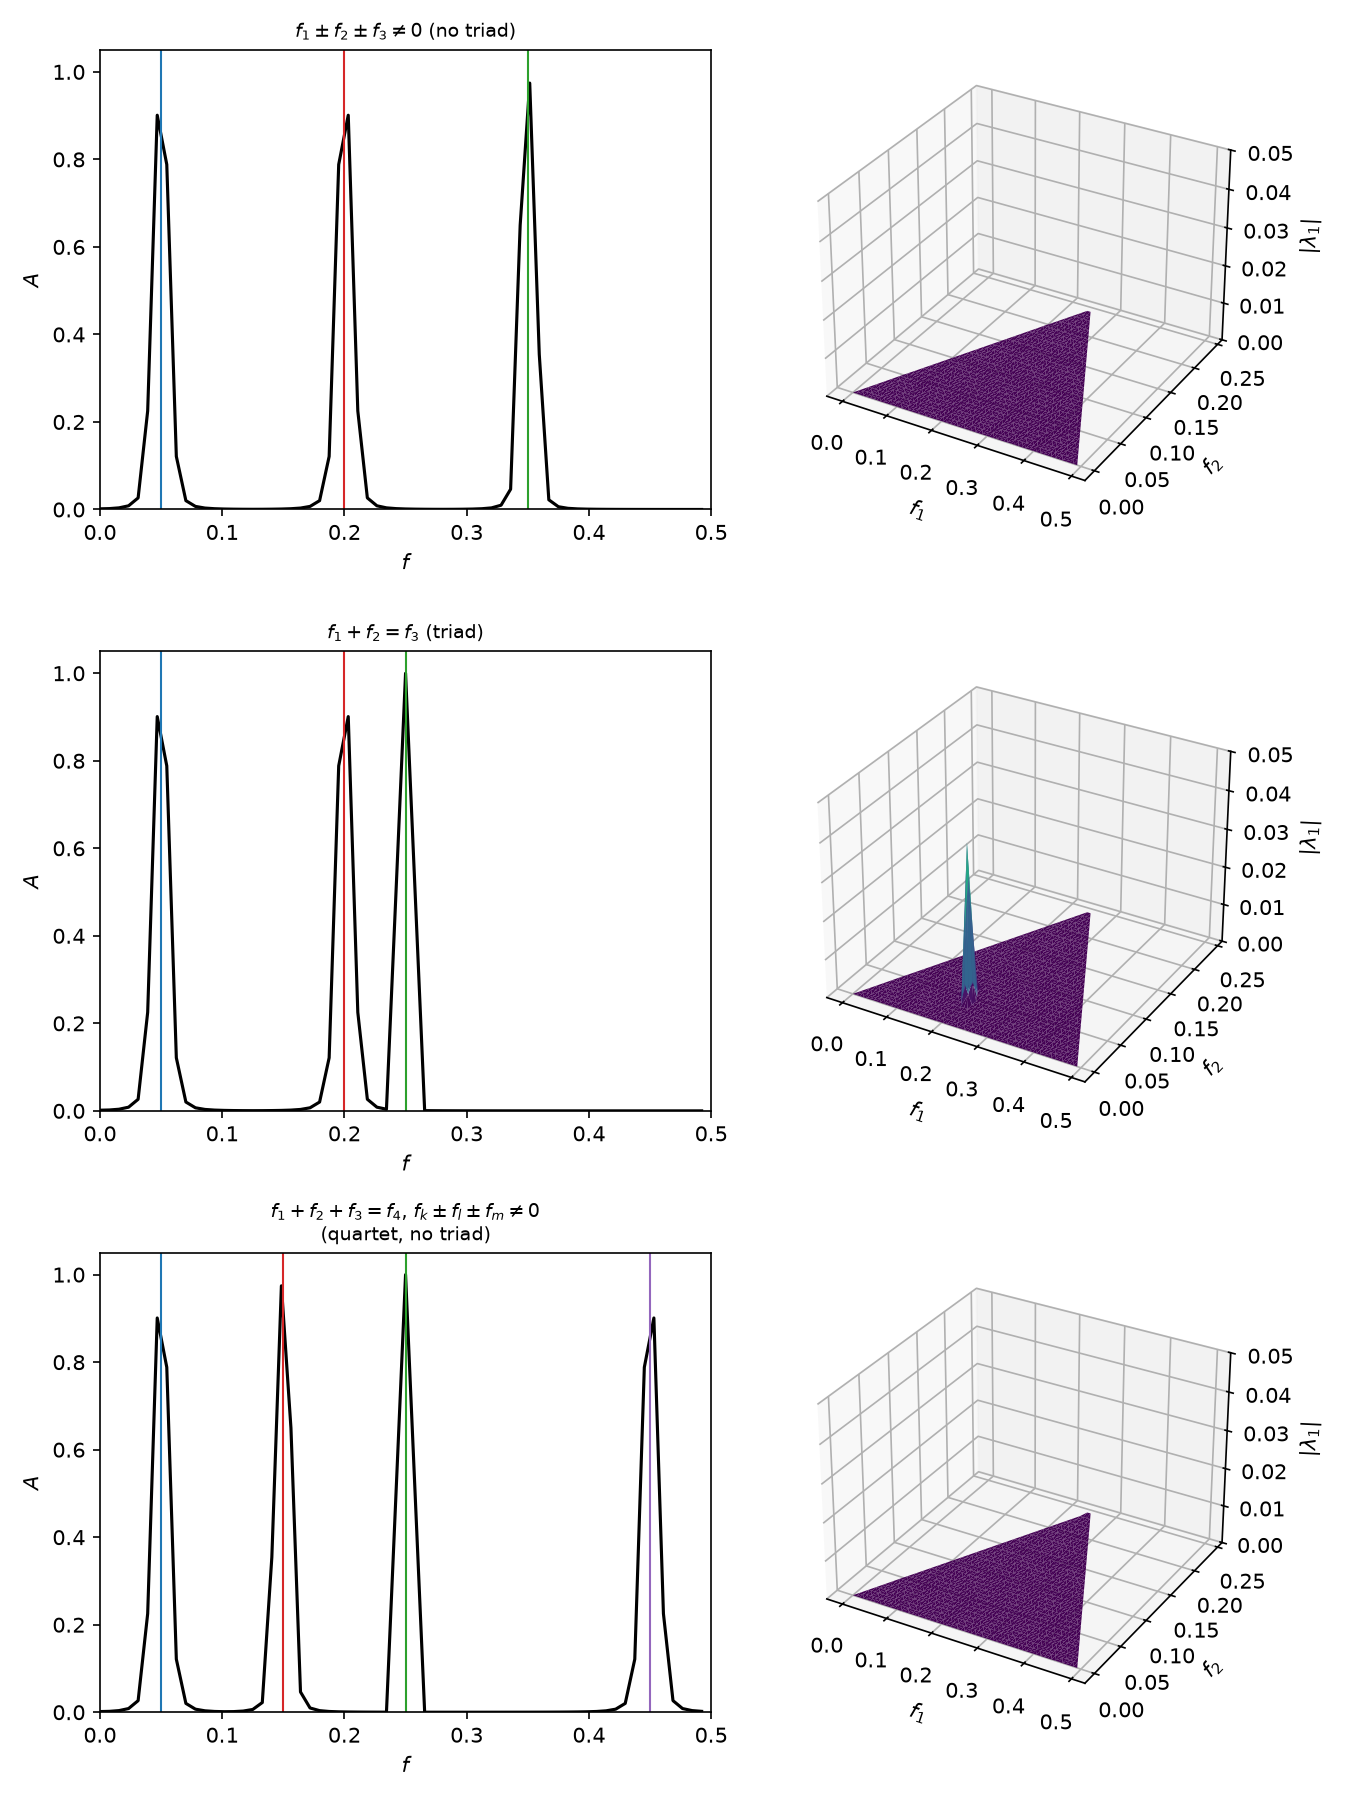
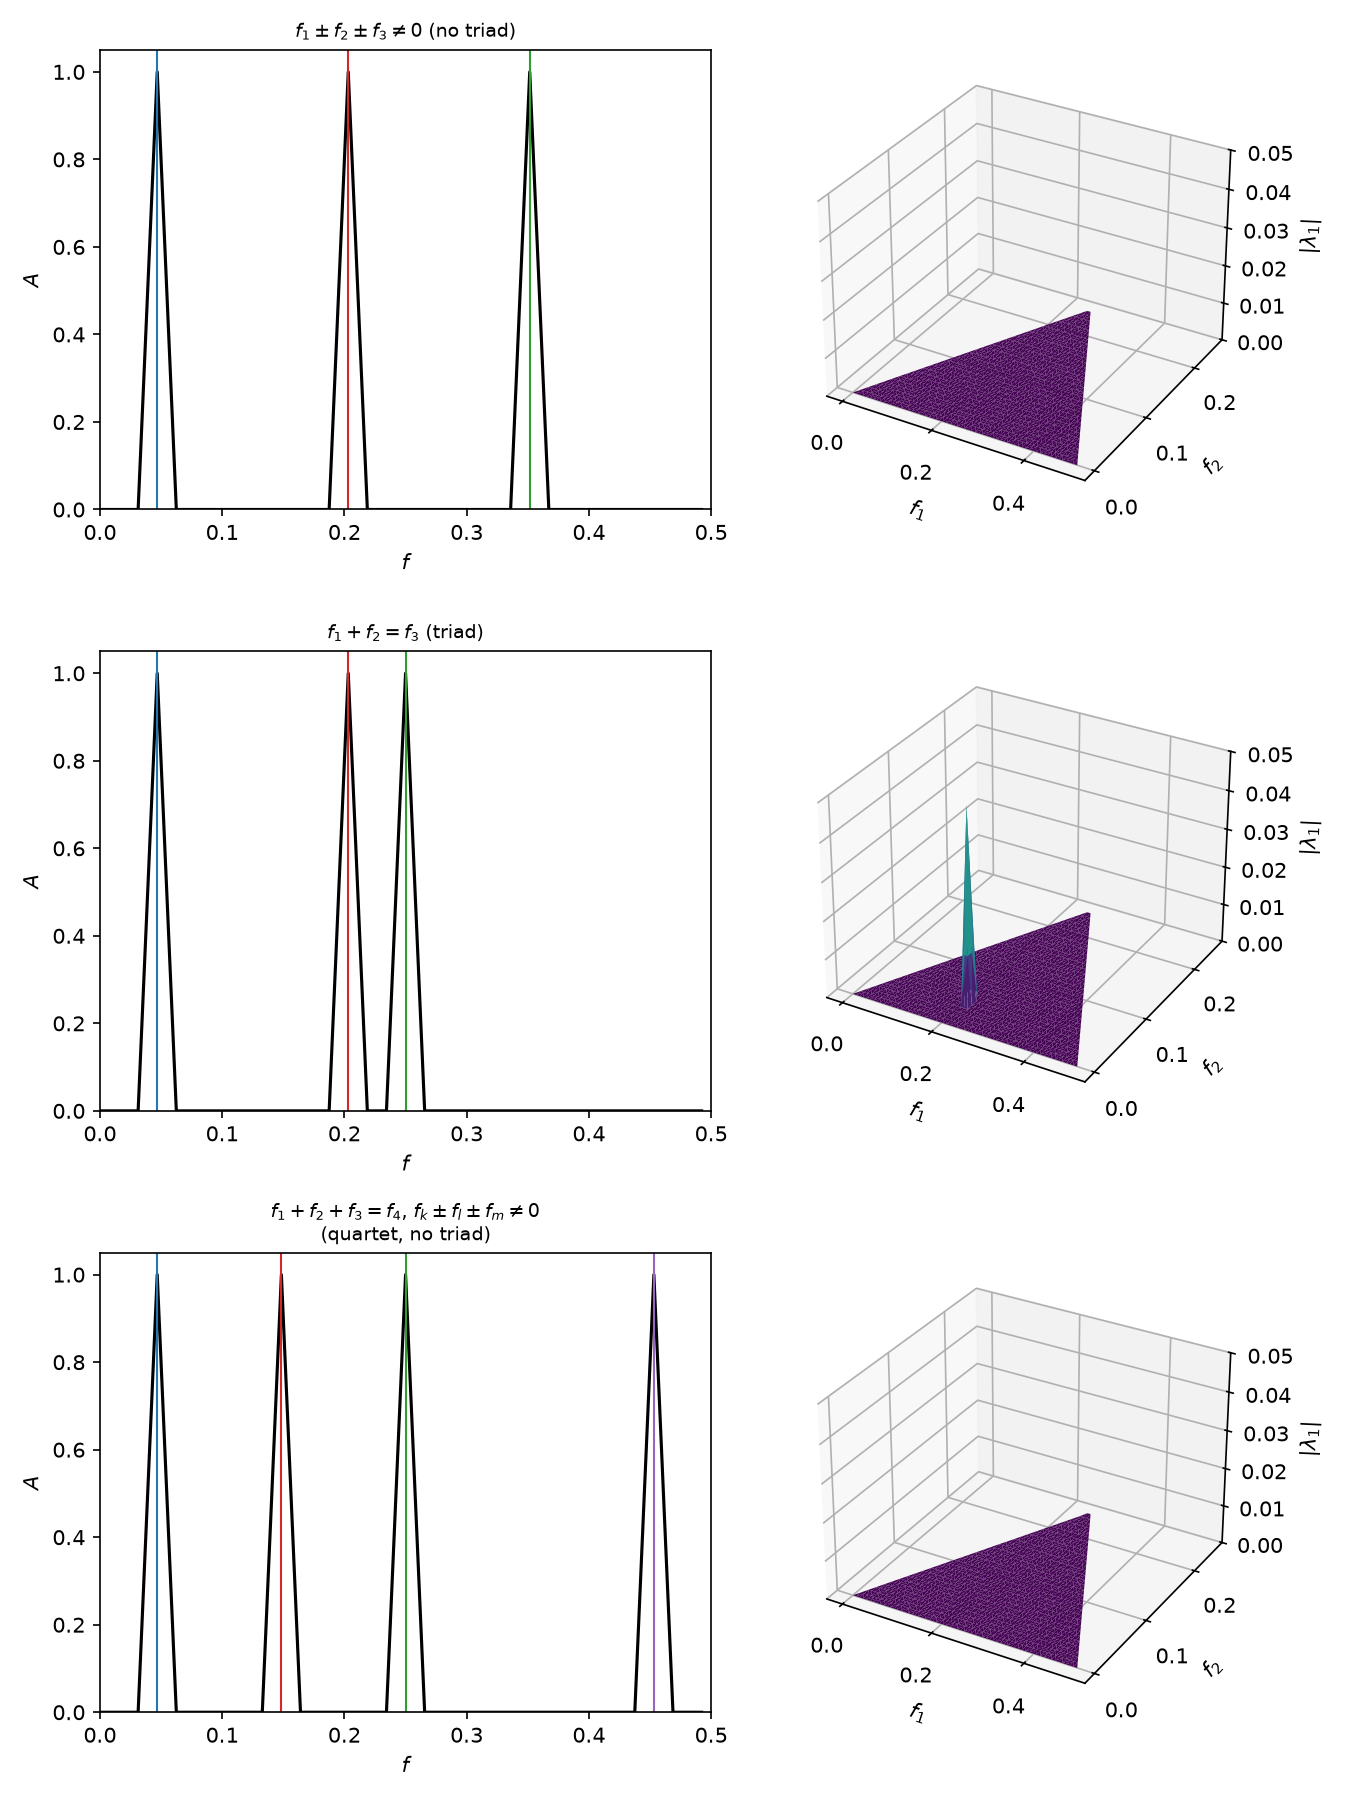
Fix frequencies and ticks. The relative error between with and without noise cases is less than 3 %.

diff --git a/tests/test_hypothesis.py b/tests/test_hypothesis.py
@@ -76,9 +76,9 @@ def _case(name, freqs, **kwargs):
     return _CASES[name]
 
 
-NONRES = dict(name='nonres', freqs=(0.05, 0.2, 0.35))
-TRIAD = dict(name='triad', freqs=(0.05, 0.2, 0.25))
-QUARTET = dict(name='quartet', freqs=(0.05, 0.15, 0.25, 0.45))
+NONRES = dict(name='nonres', freqs=(0.046875, 0.203125, 0.3515625)) # (0.05, 0.2, 0.35)
+TRIAD = dict(name='triad', freqs=(0.046875, 0.203125, 0.25)) # (0.05, 0.2, 0.25)
+QUARTET = dict(name='quartet', freqs=(0.046875, 0.1484375, 0.25, 0.453125)) # (0.05, 0.15, 0.25, 0.45)
 
 
 def amplitude_spectrum(q_x0, n_dft, dt, window='hann'):
@@ -223,6 +223,22 @@ def test_triad_survives_unit_snr_noise():
     assert vals[i] > 1.5 * background
 
 
+def test_triad_peak_height_is_stable_with_unit_snr_noise():
+    '''
+    Adding unit-SNR noise changes the noisy realization, but the dominant BMD
+    eigenvalue should remain on the clean-signal scale.
+    '''
+    clean_bmd, _, _ = _case(**TRIAD)
+    noisy_bmd, _, _ = _case(name='noise', freqs=TRIAD['freqs'], snr=1.0)
+
+    clean_t = clean_bmd.triads
+    noisy_t = noisy_bmd.triads
+    clean_peak = np.nanmax(np.abs(clean_bmd.L[clean_t.f1_idx, clean_t.f2_idx]))
+    noisy_peak = np.nanmax(np.abs(noisy_bmd.L[noisy_t.f1_idx, noisy_t.f2_idx]))
+
+    assert noisy_peak == pytest.approx(clean_peak, rel=0.03)
+
+
 # ---------------------------------------------------------------------------
 # mode content
 # ---------------------------------------------------------------------------
@@ -306,6 +322,8 @@ def test_reference_figures():
         ax_b.set_xlabel('$f_1$')
         ax_b.set_ylabel('$f_2$')
         ax_b.set_zlabel(r'$|\lambda_1|$')
+        ax_b.set_xticks([0, 0.2, 0.4])
+        ax_b.set_yticks([0, 0.1, 0.2])
     fig.tight_layout()
     out1 = os.path.join(FIGURES_DIR, 'hypothesis_harmonics_row.png')
     fig.savefig(out1, dpi=150)
@@ -316,11 +334,9 @@ def test_reference_figures():
     #    the style of figure 1's mode-bispectrum panels) ----------------------
     bmd, x, k = _case(name='noise', freqs=TRIAD['freqs'], snr=1.0)
     q, _, _ = surrogate_waves(TRIAD['freqs'], seed=0, snr=1.0)
-    L_grid = _bispectrum_grid(bmd)
-    B = classical_bispectrum(q[:, 0, 0], 128, 1.0, 40)
-    ii, jj = np.meshgrid(np.arange(40) / 128, np.arange(40) / 128, indexing='ij')
-    valid = ~np.isnan(B) & ~np.isnan(L_grid)
-    f1v, f2v = ii[valid], jj[valid]
+    t = bmd.triads
+    B = classical_bispectrum(q[:, 0, 0], 128, 1.0, 64)
+    B_vals = B[t.k, t.l]
 
     fig2 = plt.figure(figsize=(15, 4.5))
     ax0 = fig2.add_subplot(1, 3, 1)
@@ -332,28 +348,34 @@ def test_reference_figures():
     ax0.set_xlabel('$f$')
 
     ax1 = fig2.add_subplot(1, 3, 2, projection='3d')
-    ax1.plot_trisurf(f1v, f2v, B[valid], cmap='viridis', linewidth=0.1,
+    ax1.plot_trisurf(t.f1, t.f2, B_vals, cmap='viridis', linewidth=0.1,
                      vmin=0, vmax=0.25)
     ax1.set_title('(b) classical bispectrum')
     ax1.set_zlim(0, 0.25)
     ax1.set_xlabel('$f_1$')
     ax1.set_ylabel('$f_2$')
     ax1.set_zlabel('$|B|$')
+    ax1.set_xticks([0, 0.2, 0.4])
+    ax1.set_yticks([0, 0.1, 0.2])
 
     ax2 = fig2.add_subplot(1, 3, 3, projection='3d')
-    # the z-limit must come from the data: L_grid peaks around 0.057 here, and
+    # the z-limit must come from the data: the noisy mode bispectrum peaks
+    # around 0.057 here, and
     # a fixed limit taken from an unrelated scale (e.g. panel (b)'s, or a
     # guessed round number) either flattens the peak into invisibility or
     # leaves the panel mostly empty -- neither matches the published figure,
     # which shows one clear dominant peak.
-    z_max = float(np.nanmax(L_grid[valid])) * 1.05
-    ax2.plot_trisurf(f1v, f2v, L_grid[valid], cmap='viridis', linewidth=0.1,
+    vals = np.abs(bmd.L[t.f1_idx, t.f2_idx])
+    z_max = float(np.nanmax(vals)) * 1.05
+    ax2.plot_trisurf(t.f1, t.f2, vals, cmap='viridis', linewidth=0.1,
                      vmin=0, vmax=z_max)
     ax2.set_title('(c) mode bispectrum')
     ax2.set_zlim(0, z_max)
     ax2.set_xlabel('$f_1$')
     ax2.set_ylabel('$f_2$')
     ax2.set_zlabel(r'$|\lambda_1|$')
+    ax2.set_xticks([0, 0.2, 0.4])
+    ax2.set_yticks([0, 0.1, 0.2])
 
     fig2.tight_layout()
     out2 = os.path.join(FIGURES_DIR, 'hypothesis_noise.png')
